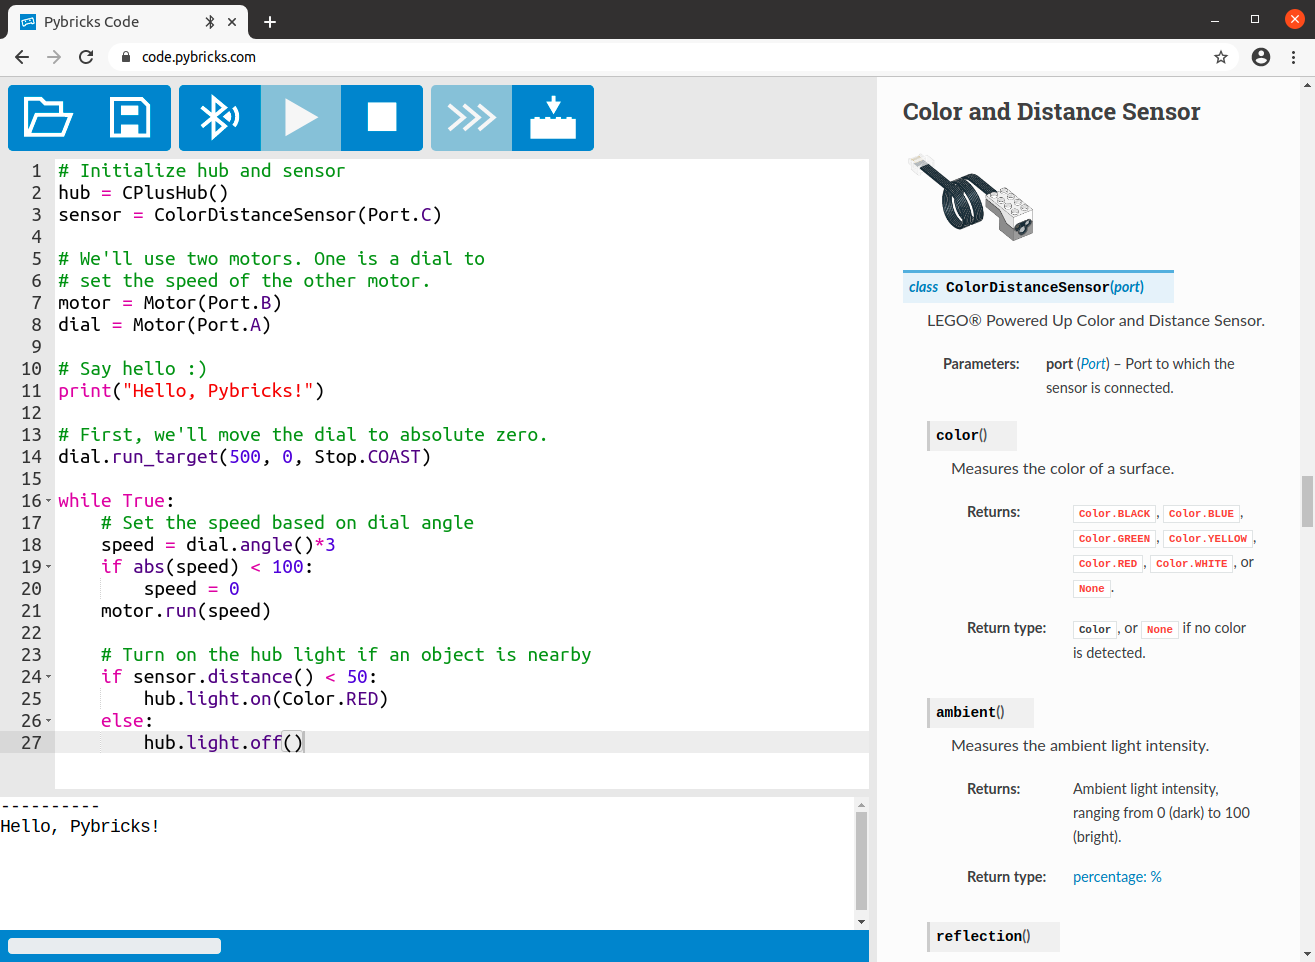
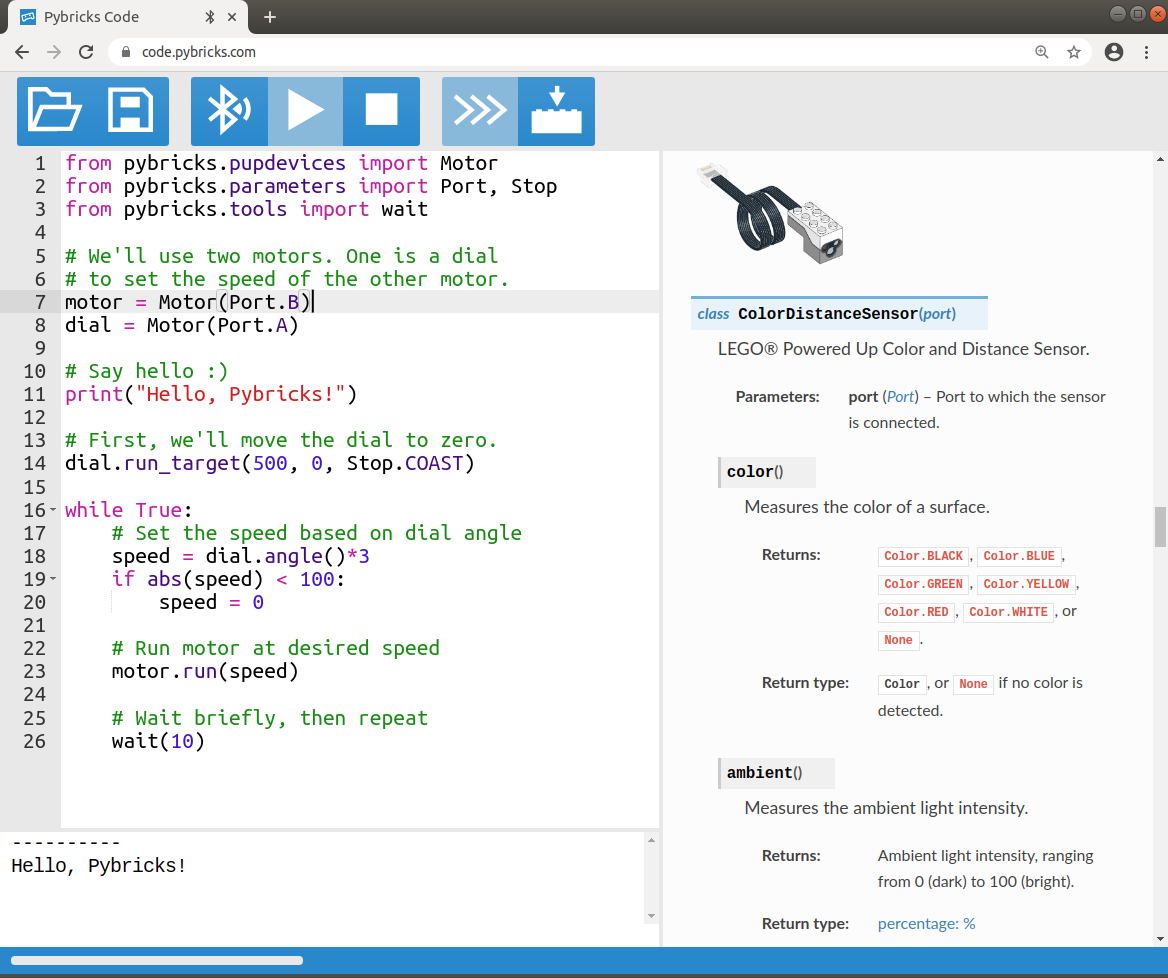
doc/start_pup: add imports to example
This reflects a firmware update that makes it more consistent with
pybricks-micropython for EV3. Making imports explicit is also more
Pythonic. This will make it clearer when some classes are not available
on some hubs.

diff --git a/doc/api/start_pup.rst b/doc/api/start_pup.rst
@@ -81,19 +81,19 @@ program.
     To get started using the program shown above, just copy and paste
     this snippet::
 
-        # Initialize hub and sensor
-        hub = CPlusHub()
-        sensor = ColorDistanceSensor(Port.C)
+        from pybricks.pupdevices import Motor
+        from pybricks.parameters import Port, Stop
+        from pybricks.tools import wait
 
-        # We'll use two motors. One is a dial to
-        # set the speed of the other motor.
+        # We'll use two motors. One is a dial
+        # to set the speed of the other motor.
         motor = Motor(Port.B)
         dial = Motor(Port.A)
 
         # Say hello :)
         print("Hello, Pybricks!")
 
-        # First, we'll move the dial to absolute zero.
+        # First, we'll move the dial to zero.
         dial.run_target(500, 0, Stop.COAST)
 
         while True:
@@ -101,13 +101,12 @@ program.
             speed = dial.angle()*3
             if abs(speed) < 100:
                 speed = 0
+
+            # Run motor at desired speed
             motor.run(speed)
 
-            # Turn on the hub light if an object is nearby
-            if sensor.distance() < 50:
-                hub.light.on(Color.RED)
-            else:
-                hub.light.off()
+            # Wait briefly, then repeat
+            wait(10)
 
 Saving a program permanently
 --------------------------------------
